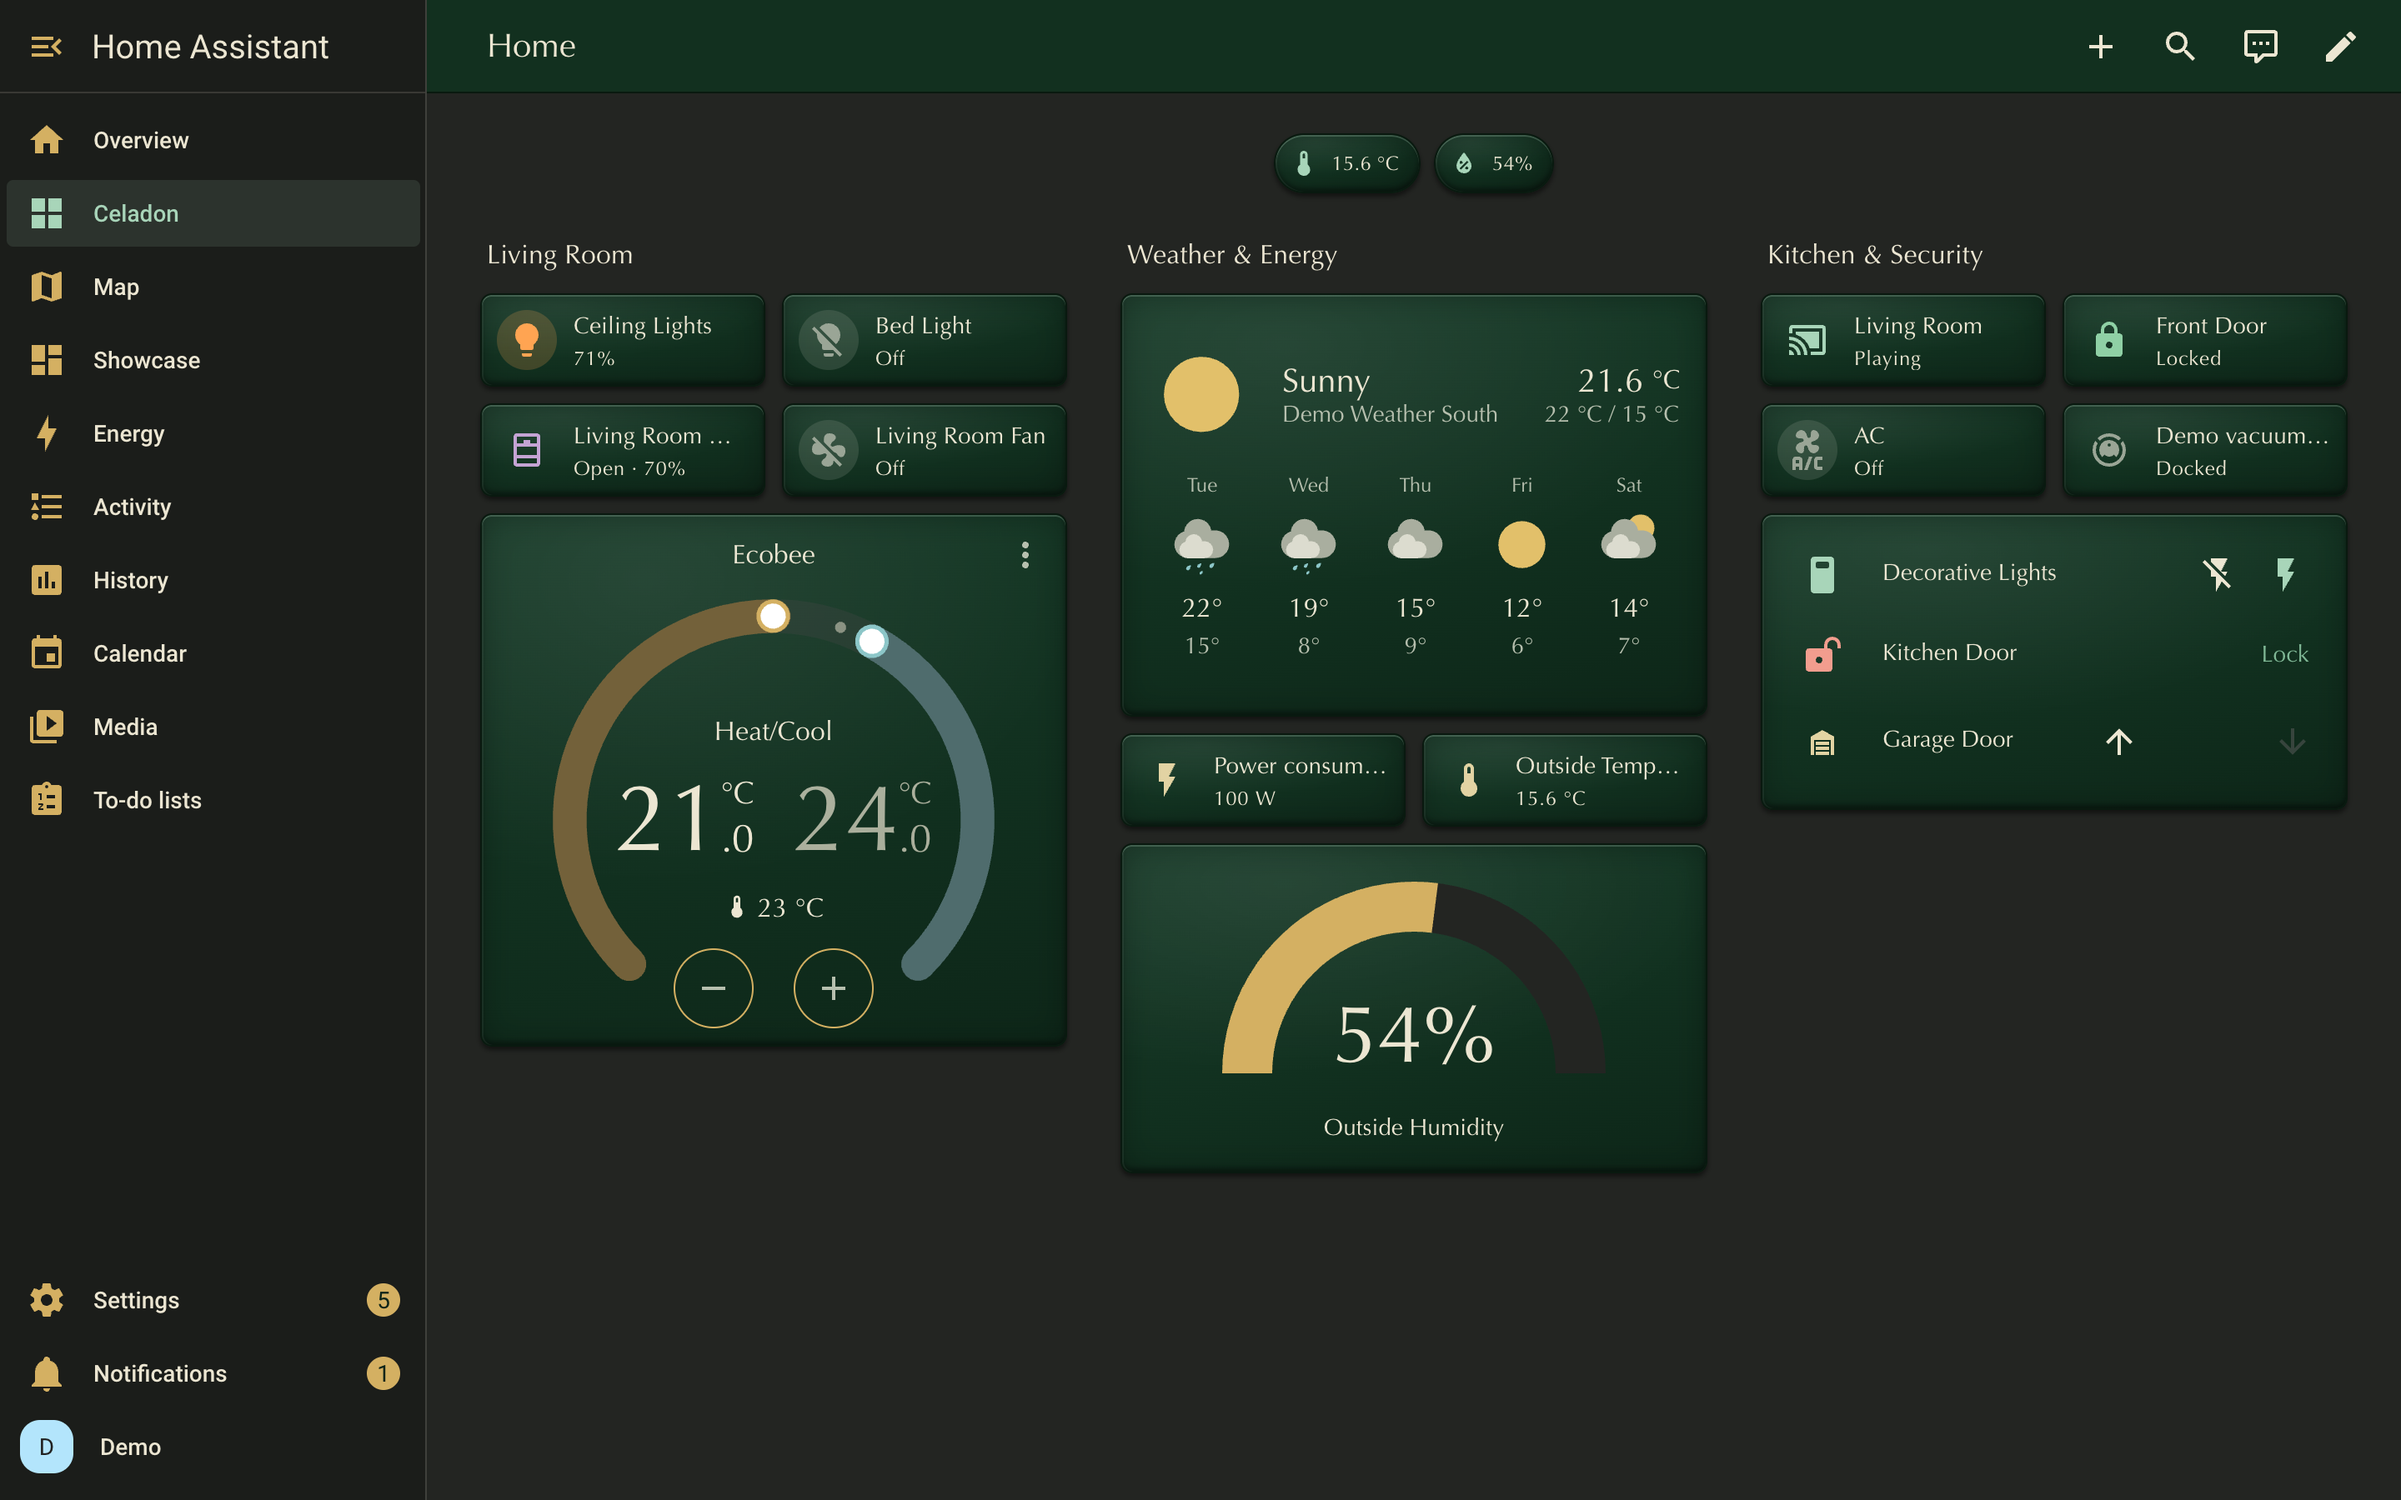
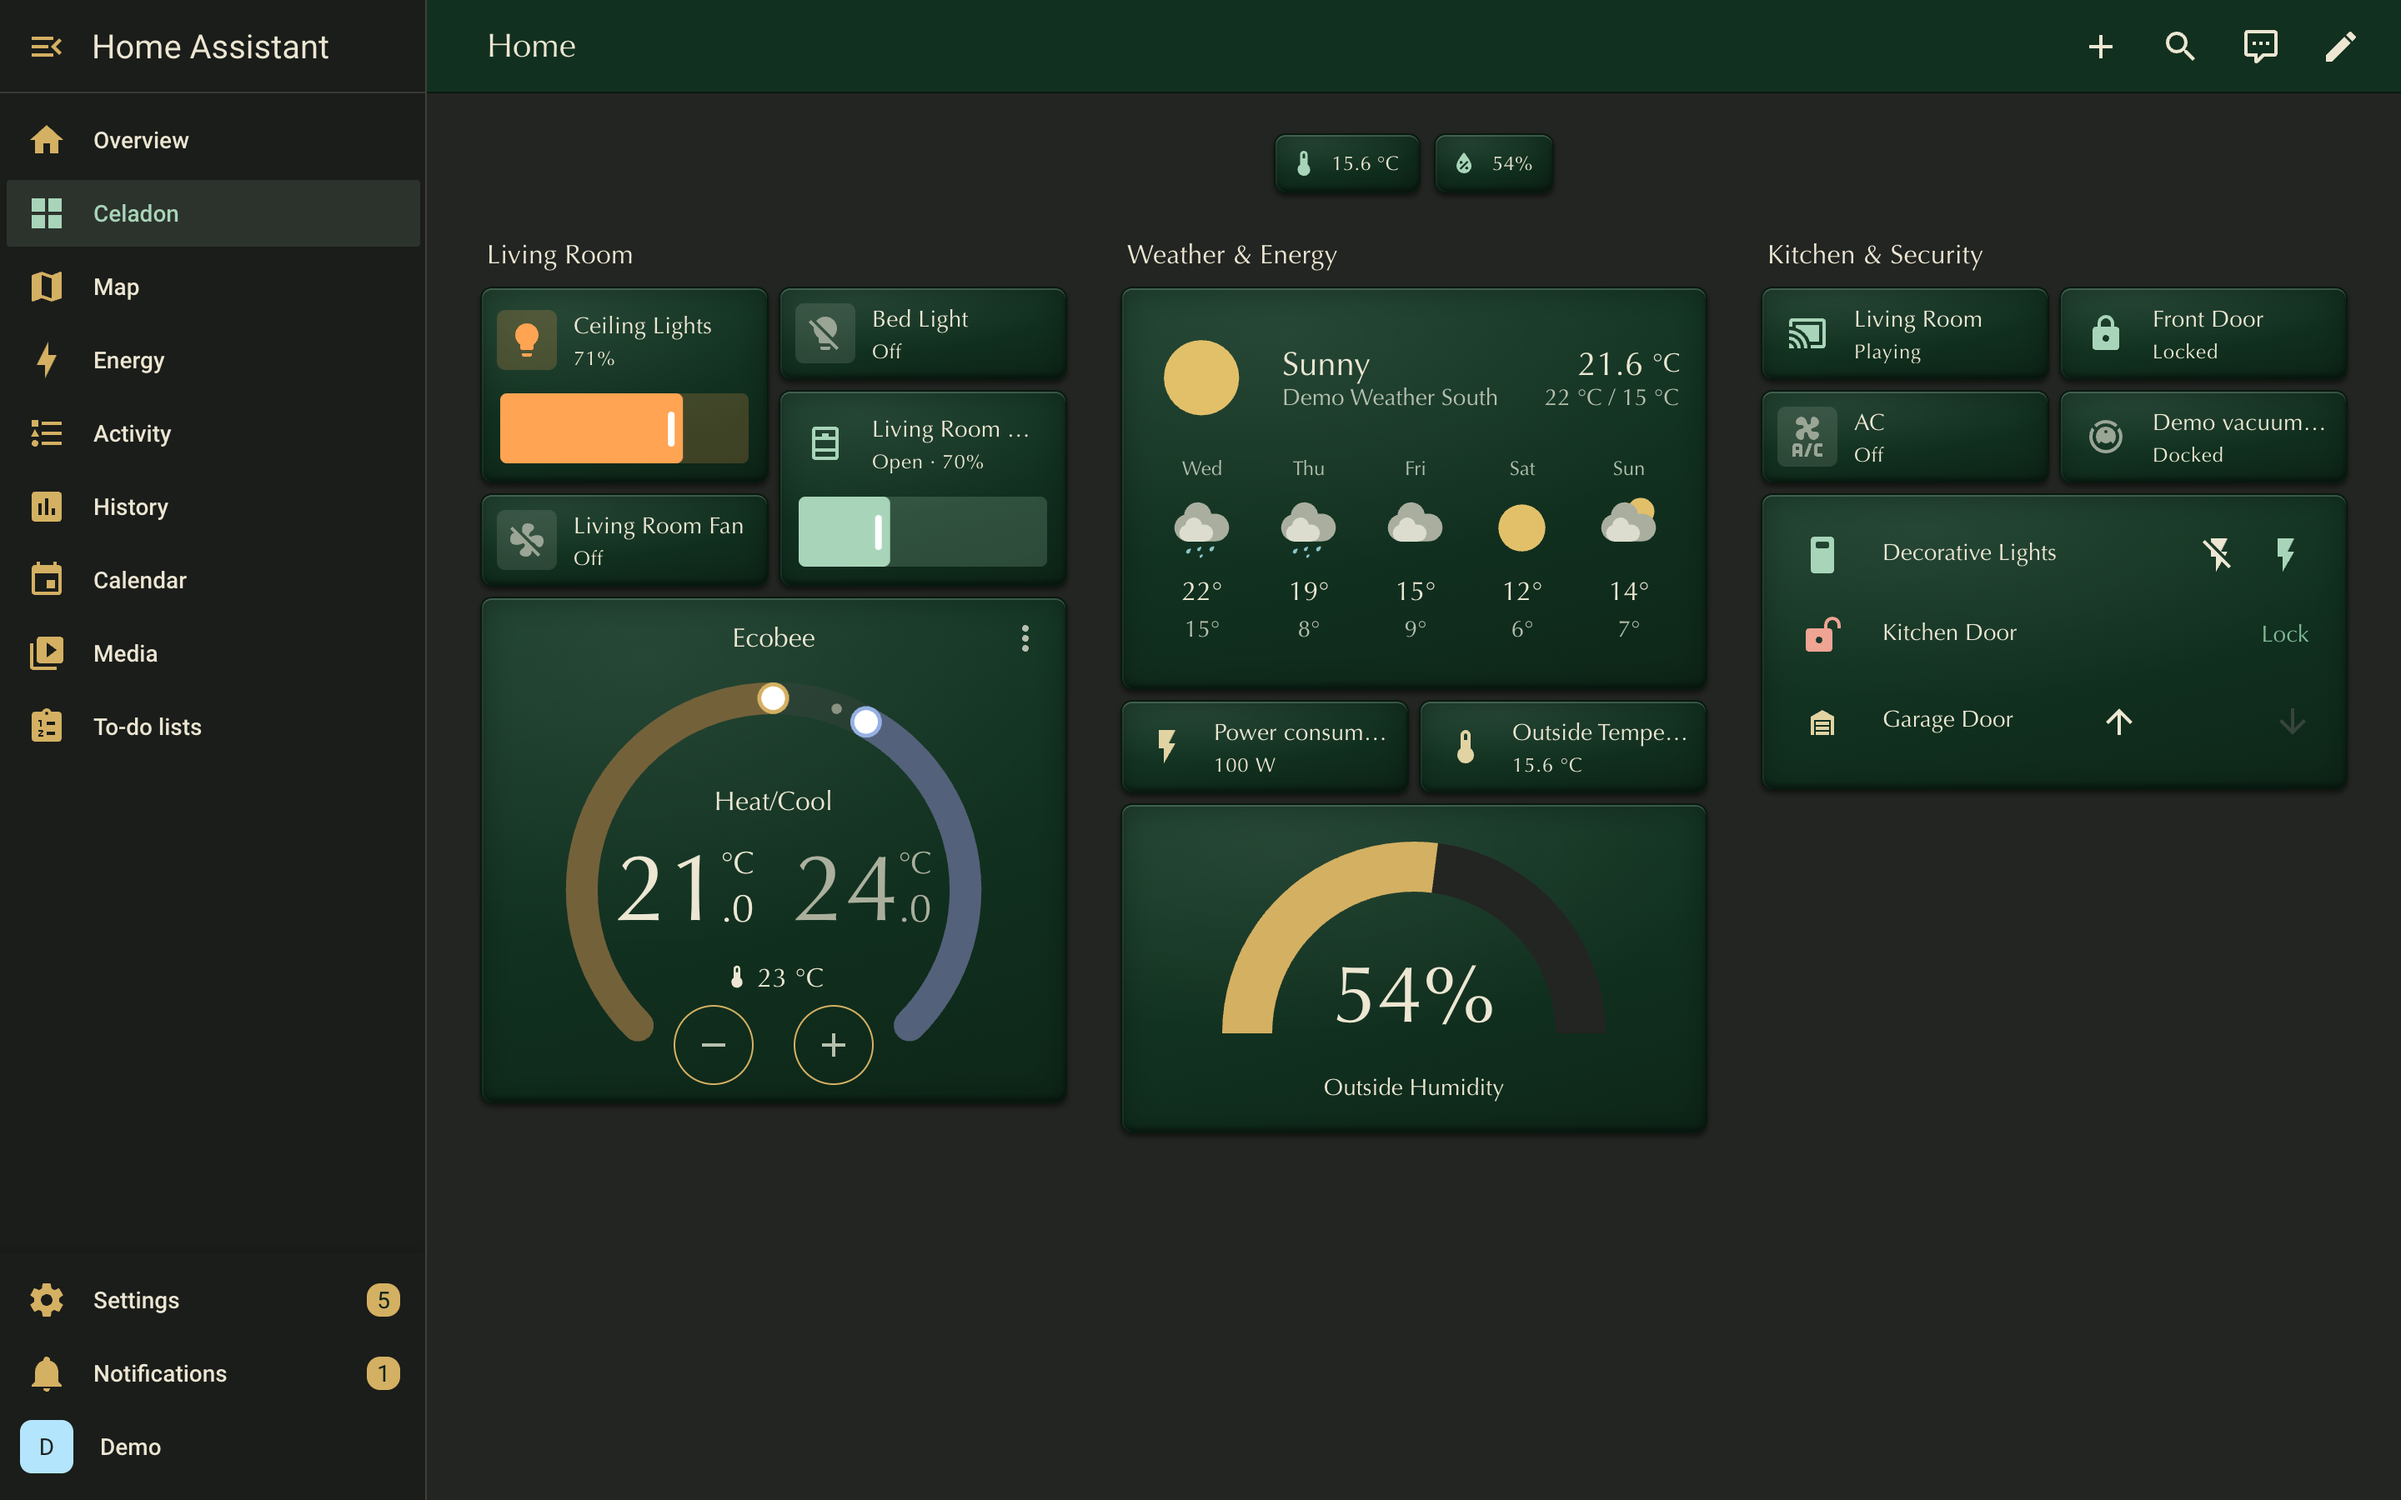
Release 1.1.0: changelog and screenshots

diff --git a/CHANGELOG.md b/CHANGELOG.md
@@ -5,12 +5,15 @@ The format follows [Keep a Changelog](https://keepachangelog.com/en/1.1.0/), ver
 
 ## [Unreleased]
 
+## [1.1.0] - 2026-11-25
+
 ### Changed
 - Narrower grout: one 6 px joint between tiles in a section (was 10 px), and small ceramic corners for buttons, sliders, dialogs and badges.
 - Icons sit on small square inlays instead of circles; tile controls (brightness, position) get square corners too.
 - State colours as four glazes: celadon for running or secure, gold for warmth and attention, cobalt for cooling, oxblood for open or alarm. Covers, locks, alarms, vacuums, valves and people now follow them instead of the default colours.
 - card-mod: a tile lights up by its state (on, open, playing, heating, cleaning ...) instead of by a list of device kinds. A paused player or a closed cover stays dark. Sliders on a lit tile use a deeper glaze, so they stay visible (before: the light's own colour or the same celadon as the tile).
 - card-mod: the selected sidebar entry keeps the normal selection overlay.
+- Screenshots show tile controls (brightness, position) and the new colours.
 
 ## [1.0.0] - 2026-11-24
 
